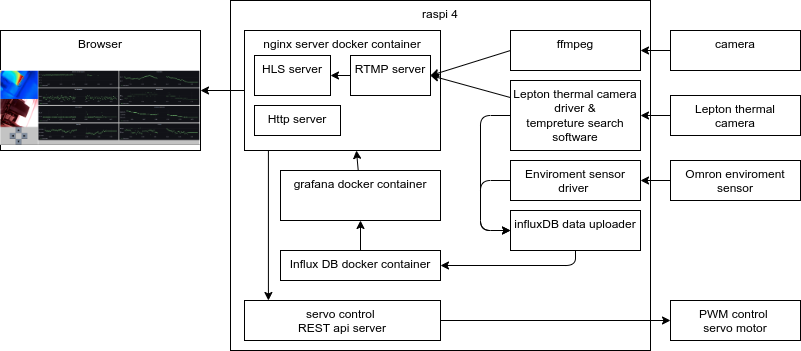
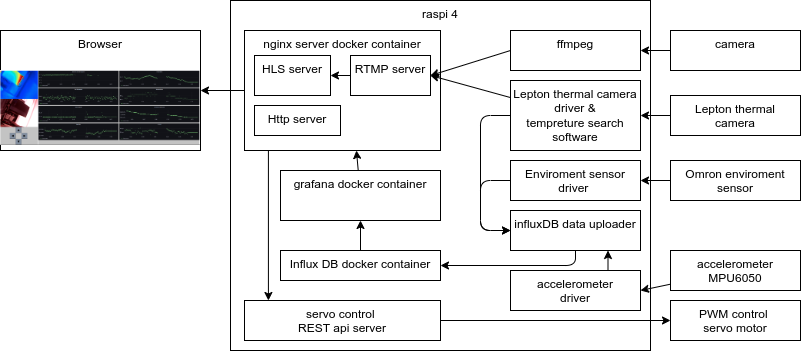
add acceleromer explain

diff --git a/README.md b/README.md
@@ -9,7 +9,7 @@ Thermal camera(Lepton)/HLS/nginx/influxDB/grafana/enviroment sensor(Omron)/accel
 
 # Features
 
-* HLSによるリアルタイムでのIR camera/Thermal camera(Lepton)の動画配信
+* HLSによるリアルタイムでの camera/Thermal camera(Lepton)の動画配信
   * camera画像をRTMPでNginxサーバーに送信
   * 画像内最大温度と、中心温度の保存と配信
 * Omron の環境センサ、thermal camera の温度情報、accelerometer (MPU6050)のinfluxDBへの保存、grafanaでのリアルタイムプロット
@@ -21,10 +21,12 @@ Thermal camera(Lepton)/HLS/nginx/influxDB/grafana/enviroment sensor(Omron)/accel
   * PWMを使用できること
 * Lepton pure thermal 1(PT1)
   * https://groupgets.com/manufacturers/getlab/products/purethermal-1-flir-lepton-smart-i-o-module
-* IR camera
+* camera
   * any vendor
 * Omron enviroment sensor (2JCIE-BU01(F1))
   * https://amzn.asia/d/2eTEef1
+* 加速度センサ
+  * MPU6050
 * PWMで角度調整できるサーボモーター 2個
   * such as SG90
   * PWM 12を高さ調整用servoに接続する
@@ -75,12 +77,12 @@ indluxDBへの接続とdashboardを作成する。(Baby_sense-1671418851290.json
 ./start_container.sh
 ```
 
-* IR cameraをffmpegにてRTMP serverへの転送
+* camera画像をffmpegにてRTMP serverへの転送
 ```bash
 ./start_ffmpeg.sh
 ```
 
-* Thermal camera / REST API server / influxDBへのアップロードモジュールの起動
+* Thermal camera / REST API server / 加速度センサドライバ / 環境センサドライバ / influxDBへのアップロードモジュールの起動
 ```bash
 ./start.sh
 ```
